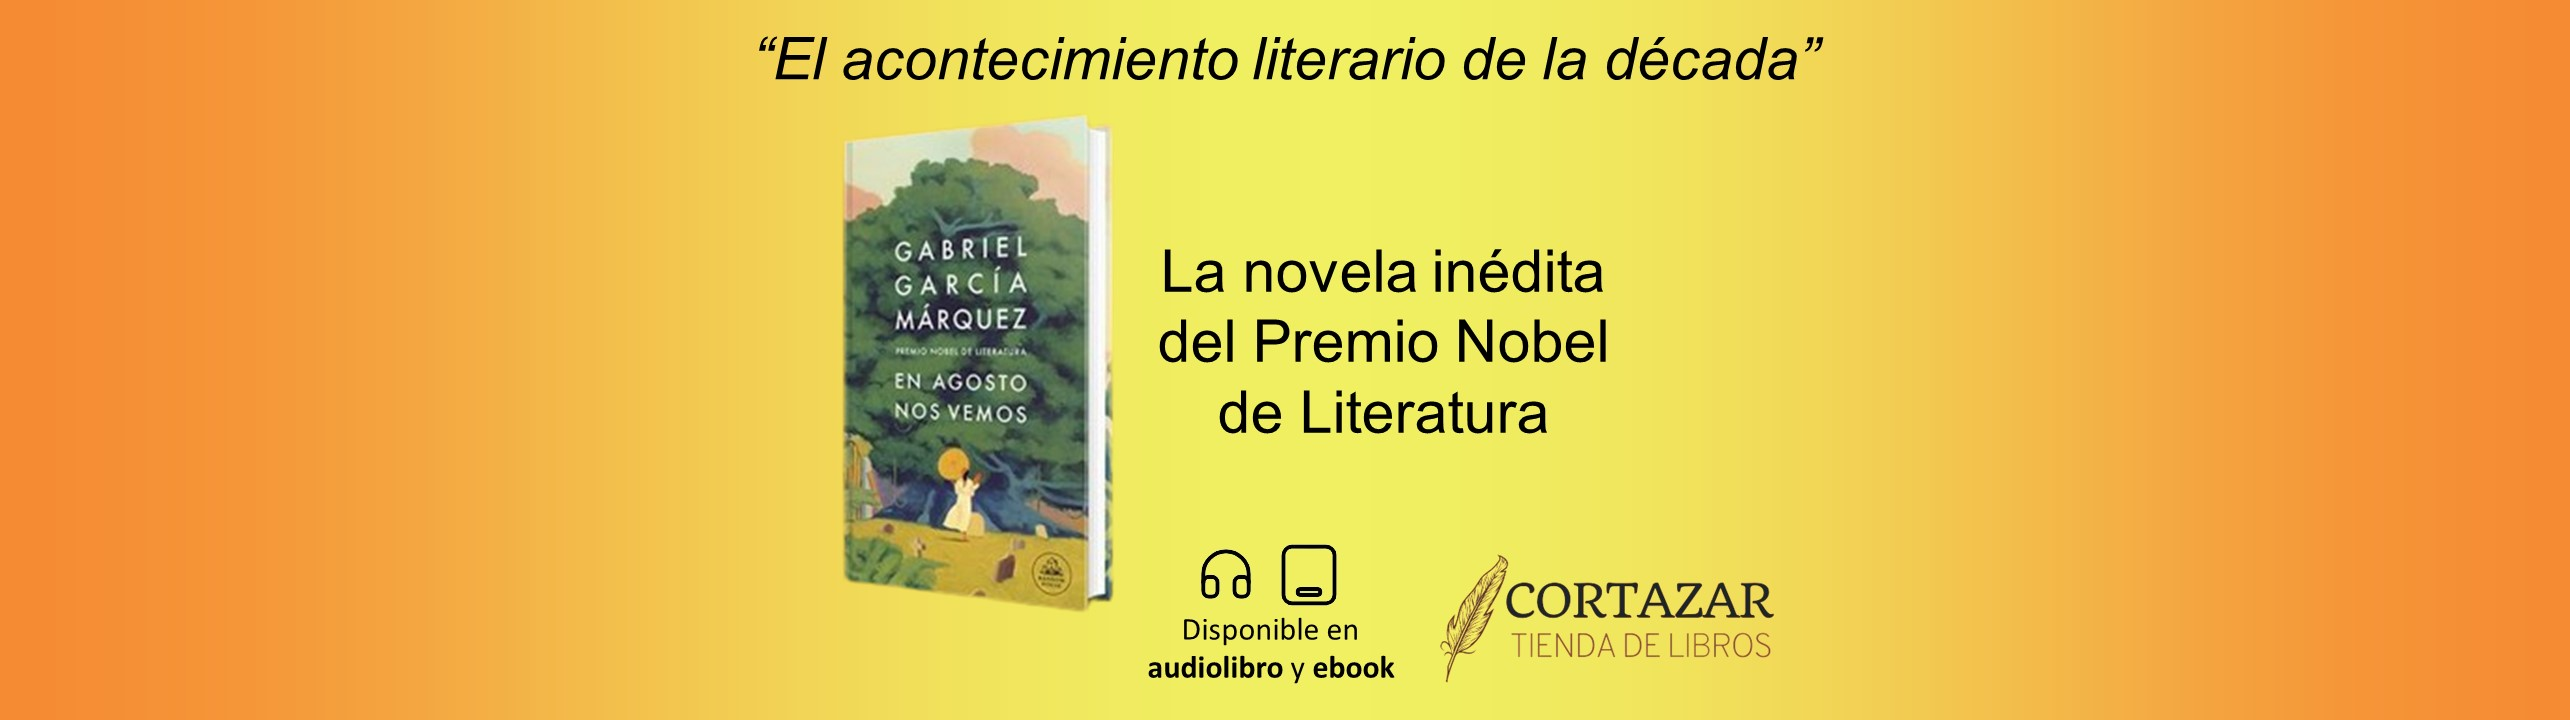
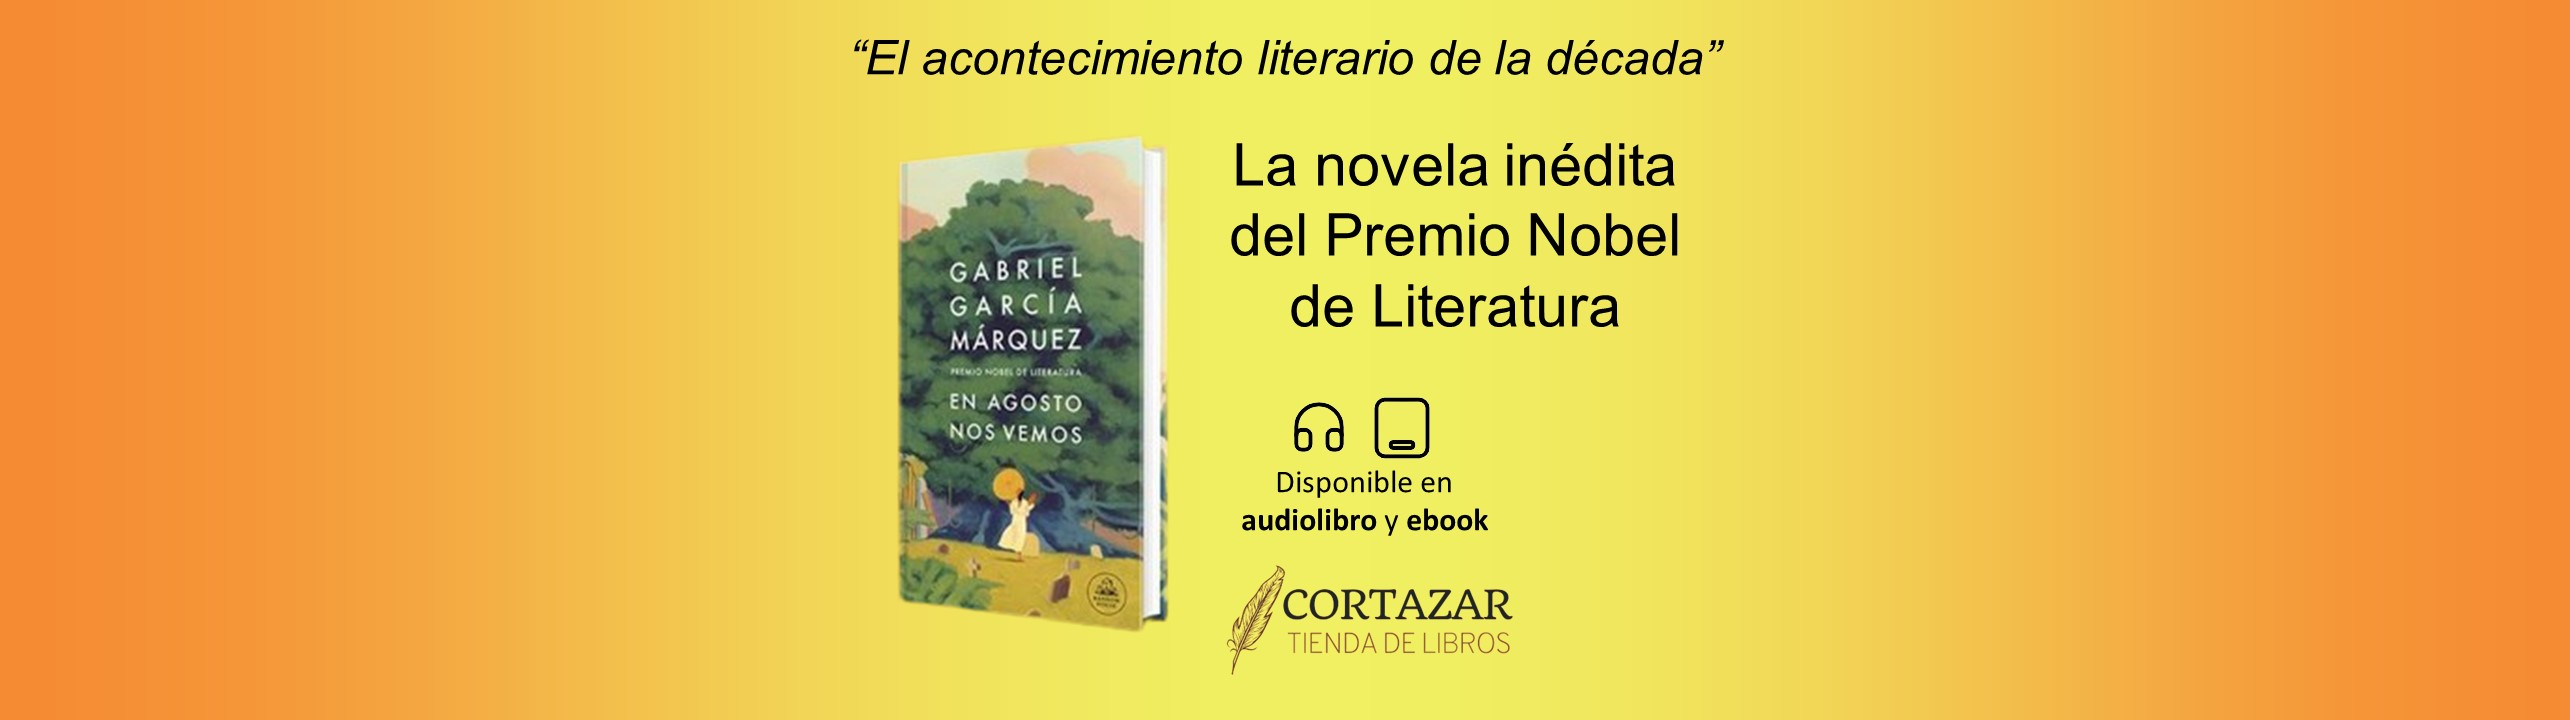
corrected minor issues with the height of the carousel

Changed region(s): [[0.3113, 0.1528, 0.6848, 0.9472], [0.2802, 0.0306, 0.716, 0.1222]]

diff --git a/style/style.css b/style/style.css
@@ -39,6 +39,31 @@ body {
 
 /* ================MAIN==================== */
 
+.carousel-inner{
+    height: 500px;
+}
+
+.carousel-item, img{
+    height: 100%;
+    width: 100%;
+    object-fit: cover;
+
+}
+
+@media (max-width: 576px){
+    .carousel-inner{
+        height: 250px;
+    }
+
+    .carousel-item, img{
+        height: 100%;
+        width: 100%;
+        object-fit: cover;
+    }
+
+}
+
+
 main hr {
     margin: 1.5rem 0;
 }
@@ -47,15 +72,15 @@ main hr {
     min-width: 20%;
     padding: 1.5rem 0;
     background-color: var(--secondary-color);
-  }
+}
   
 .card-body {
     padding: 1rem 0;
-  }
+}
   
 .card img {
     object-fit: contain;
-  }
+}
   
 .card-title {
     text-transform: capitalize;
@@ -66,7 +91,7 @@ main hr {
     text-overflow: ellipsis; /* Agrega ... al texto cuando hay overflow */
     white-space: nowrap; /*Mantiene el texto en la misma linea*/
     width: 100%;
-  }
+}
   
 .card-author {
     text-transform: capitalize;
@@ -80,14 +105,14 @@ main hr {
     white-space: nowrap; /*Mantiene el texto en la misma linea*/
     width: 100%;
     margin-bottom: 1rem;
-  }
+}
   
 .card-price {
     margin-bottom: 0;
     font-weight: 700;
     font-size: 1.5rem;
     text-align: left;
-  }
+}
   
 .btn-card-product {
     align-items: center;
@@ -109,36 +134,24 @@ main hr {
     text-decoration: none;
     transition: all 250ms;
     width: auto;
-  }
+}
   
 .btn-card-product:hover,
 .btn-card-product:focus {
     background-color: #fb8332;
     box-shadow: rgba(0, 0, 0, 0.1) 0 4px 12px;
-  }
+}
   
 .btn-card-product:hover {
     transform: translateY(-1px);
-  }
+}
   
 .button-card-product:active {
     background-color: #c85000;
     box-shadow: rgba(0, 0, 0, 0.06) 0 2px 4px;
     transform: translateY(0);
-  }
-
-@media (max-width: 576px){
-    .carousel-inner{
-        height: 150px;
-    }
-
-    .carousel-item, img{
-        height: 100%;
-        width: 100%;
-        object-fit: cover;
-    }
-
 }
+
 
 
 
